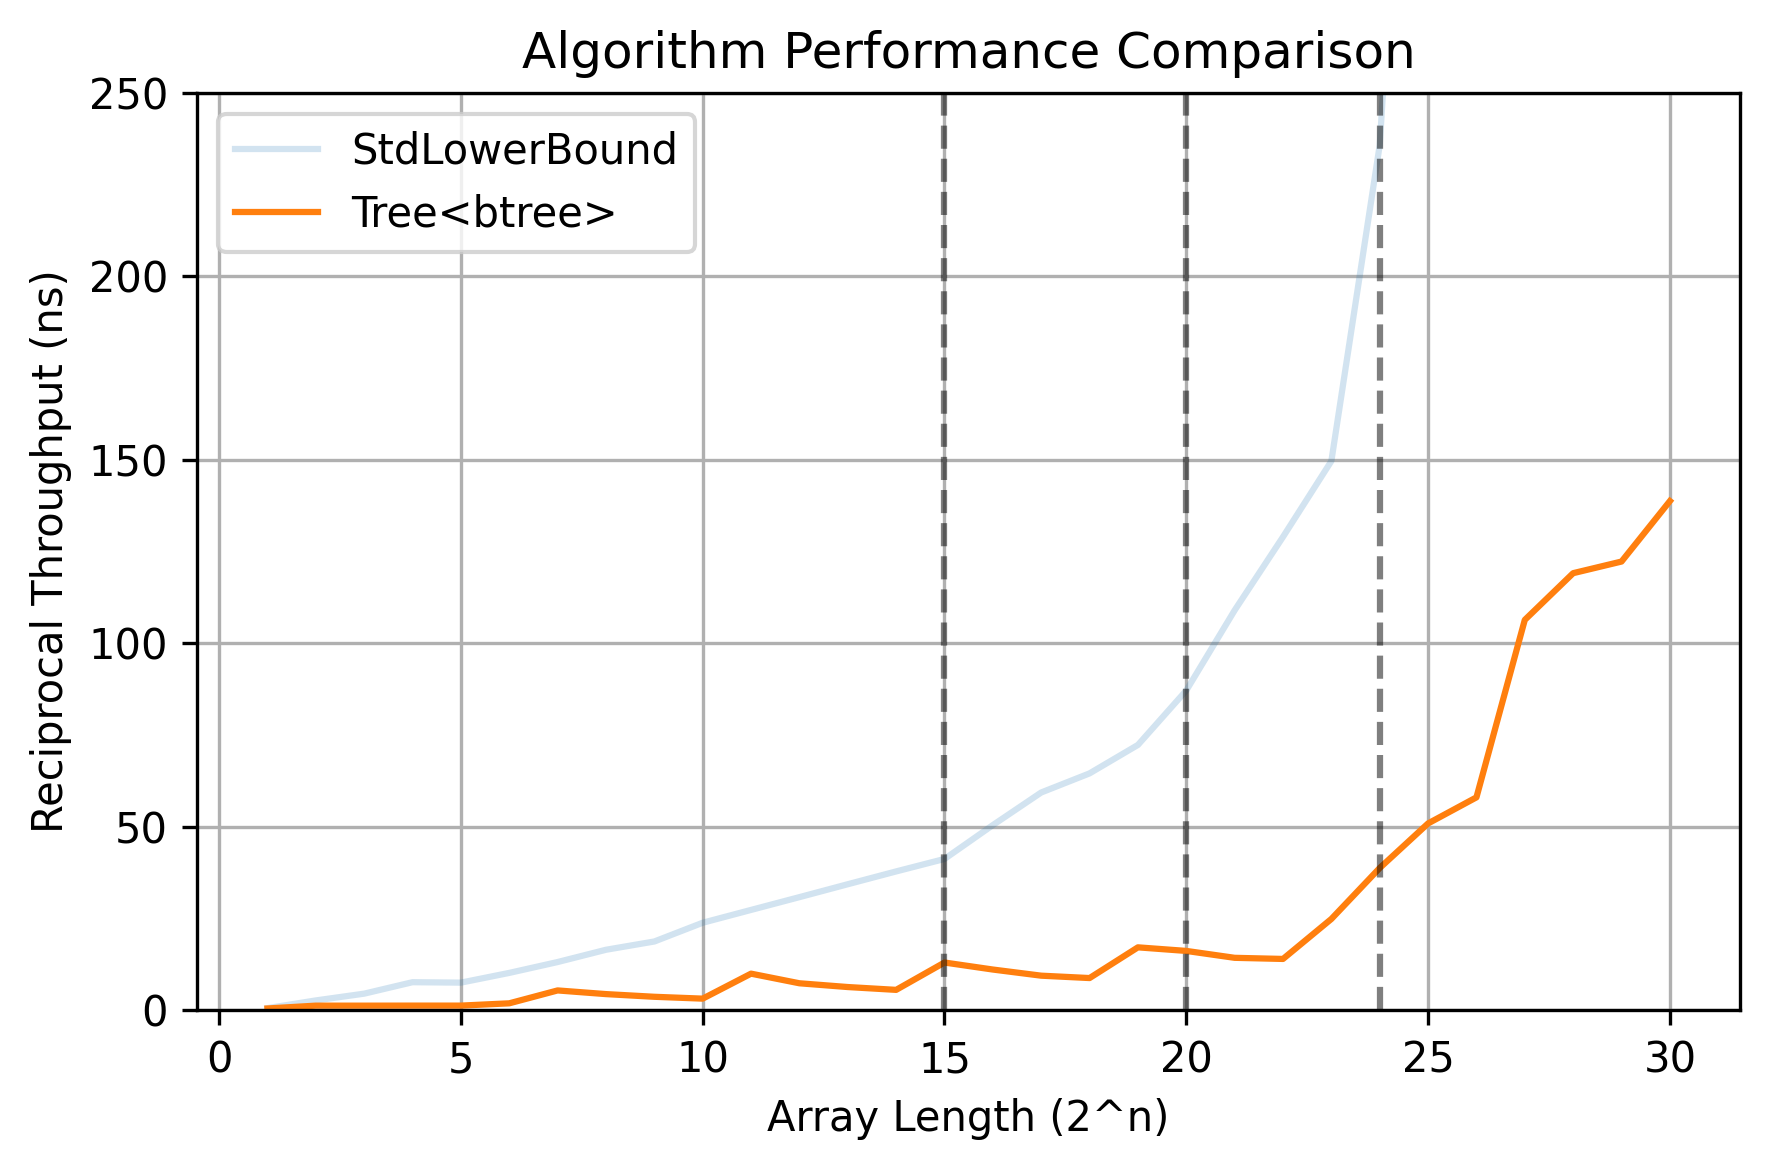
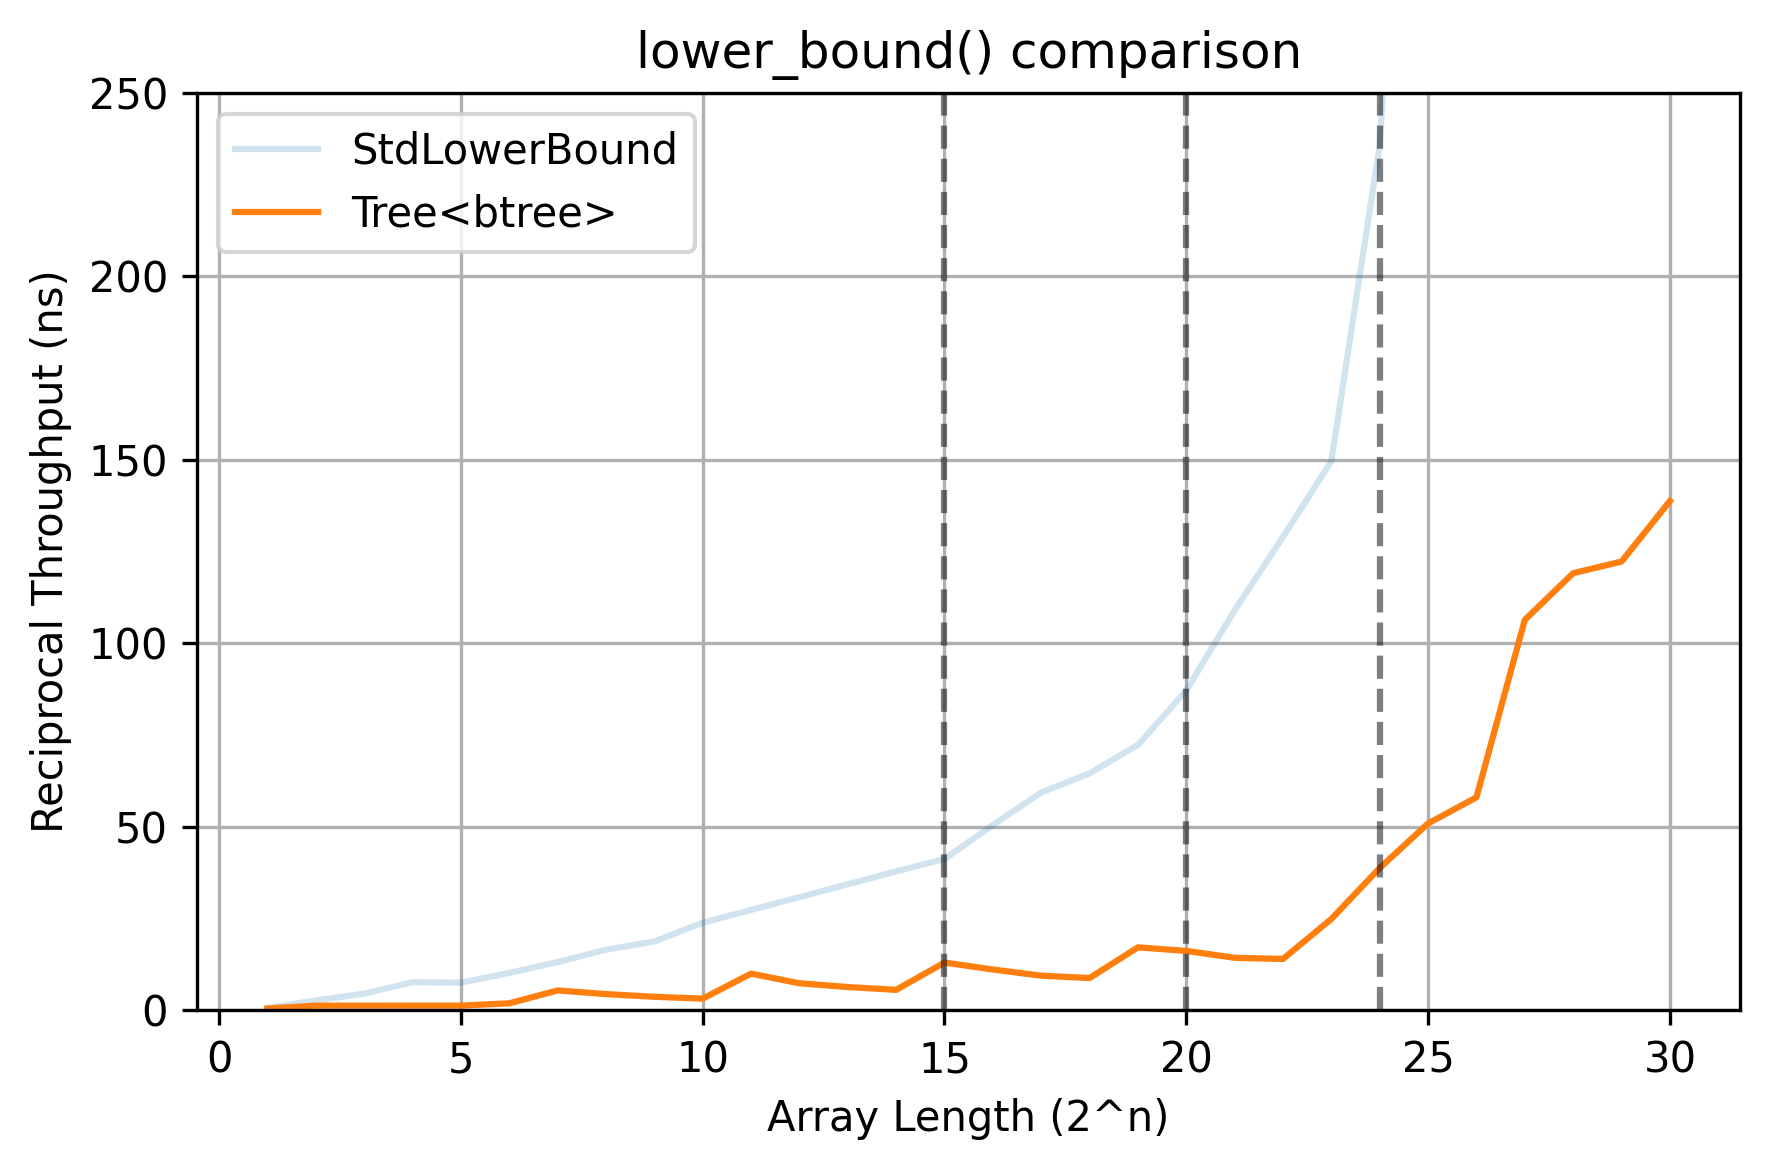
Change plot title

Changed region(s): [[0.2797, 0.0308, 0.8079, 0.0615]]

diff --git a/results/graph.py b/results/graph.py
@@ -27,7 +27,7 @@ plt.axvline(x=24, color="black", linestyle="--", alpha=0.5)
 plt.grid(True)
 plt.xlabel("Array Length (2^n)")
 plt.ylabel("Reciprocal Throughput (ns)")
-plt.title("Algorithm Performance Comparison")
+plt.title("lower_bound() comparison")
 plt.ylim(0, 250)
 plt.legend()
 
